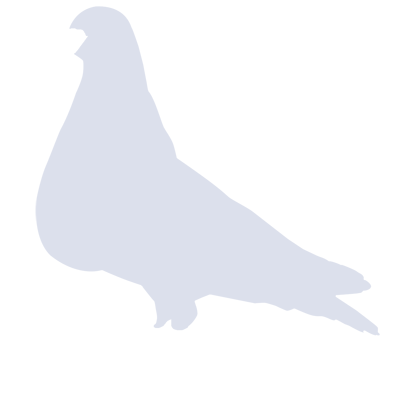
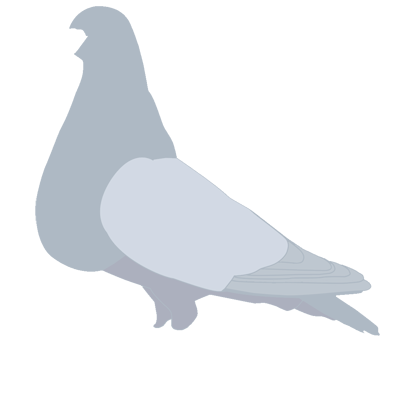
Implemented pigeon dueling. Added better AshRed Spread graphics and fixed some README typos

Changed region(s): [[0.09, 0.0, 0.96, 0.84], [0.69, 0.57, 0.72, 0.6], [0.66, 0.54, 0.69, 0.57]]

diff --git a/site/index.html b/site/index.html
@@ -73,10 +73,10 @@
             You can see similar behavior in breeds like Laudinos, Valencianos, Morrilleros, Marcheneros,
             Rafeños, Horseman pouters and others. In Pigeomatic you can lock your PGNs in a fly session for 2
             hours. When you try to retrieve your PGN the system will randomly select an opponent, if available,
-            and pit the PGNs&#39; <strong>Charisma</strong> vs their <strong>Loyalty*</strong>. Charisma and
+            and pit the PGNs&#39; <strong>Charisma</strong> vs their <strong>Loyalty</strong>. Charisma and
             Loyalty are non-visible traits that are tracked by the PGN&#39;s DNA. The result of this battle has
             2 different outcomes. The battle can be a draw if none of the PGN&#39;s charisma is greater than the
-            opponent&#39;s loyalty. Otherwise the PGN with the highest charisma difference to the opponents
+            opponent&#39;s loyalty. Otherwise the PGN with the highest charisma difference over the opponent&#39;s
             loyalty wins the battle and its onwer gains the oppossing PGN. </p>
         <p>Lastly, like the real animals, PGNs have a lifespan. Based on an ideal maximum of 15 years, all PGNs
             live a fraction of that. Once the PGN reaches the end of his life the PGN is considered dead and
@@ -118,8 +118,7 @@
         <p>If you browse to the utils/images directory you should see 4 png images there. The filename
             corresponds to the PGN id. You can figure out which is which by checking the pigeons.json file that
             we wrote from ghci. The squeakers get rendered as adults so you can see what they would look like in
-            the future. If you selected the same seed (123) when creating the random number generator they
-            should look like this:</p>
+            the future.</p>
         <p><img src="images/1a19ac5c21751dc8917b0690fc5f1d44ca5519e5e0afc8ef363f4185d554d046.png" alt="mother"
                 title="mother">
             <img src="images/29f557f896f7d382eb4d3e1ad91babb8e5683ae54aa28c77e3ebad060c1beba5.png" alt="father"

diff --git a/lambdas/utils/renderPGNS.js b/lambdas/utils/renderPGNS.js
@@ -7,7 +7,7 @@ const pigeons = require(path.join(__dirname,'/pigeons.json'));
 
 console.log('Loading pigeons...');
 let ps = pigeons.map((pigeon) => {
-    return renderPigeon(pigeon.genotype, 250);
+    return renderPigeon(pigeon.genotype, 400);
 });
 console.log(`loaded ${pigeons.length} pigeons.`);
 

diff --git a/README.md b/README.md
@@ -24,9 +24,10 @@ PGNs are either males (*cocks*) or females (*hens*) and they can be paired to pr
 
 The process of pairing PGNs and producing squeakers takes around a month and uses a simplified model of Mendelian genetics. This model loosely follows real world pigeon genetics that add a level of realism to the game. It all starts when you select two PGNs of opposite sex and lock them in a pairing. For the first 10 days the new paired couple builds a nest. On the 10th day the hen lays the first egg followed by the second egg on the next day. 18 days later the eggs hatch and two new squeakers are produced. In order to simulate all this, paired PGNs remain locked for 30 days. The squeakers are the product of genetic recombination of their parent's DNA. In time, squeakers grow up to be adult PGNs. Sexual maturity is achieved after 6 months at which time they can start breeding. In animal husbandry is common to apply selective breeding techniques to encourage traits that are desirable. Inbreeding and line breeding are usually practiced both of which lock desirable traits. You could potentially star with a single pair and develop your loft by pairing siblings. Ultimately if you want to include more traits you could crossbreed to an unrelated PGN.
 
-Another way to interact with your PGNs is by flying them. Keep in mind that PGNs are based on a real world pigeon breed called Jiennense. This breed was created in Spain at the beginning of the last century. Nowadays you can find them in several European countries, USA, South America and the Caribbean. These pigeons are famous for attracting other pigeons to their loft. Pigeon breeders in a neighborhood release one or two of their best specimens at a time and a battle ensues in the air. Pigeons from other lofts try to seduce your pigeons while your pigeons try to do the same. The pigeons fly together and through air maneuvers they show the others the way to their loft. Ultimately when pigeons land on another loft they get captured by various means including the captured pigeon entering a coop and activating a trap. The are other pigeon breeds that are considered "working" pigeons that do the same and the hobby has fans all around the world. You can see similar behavior in breeds like Laudinos, Valencianos, Morrilleros, Marcheneros, Rafeños, Horseman pouters and others. In Pigeomatic you can lock your PGNs in a fly session for 2 hours. When you try to retrieve your PGN the system will randomly select an opponent, if available, and pit the PGNs' **Charisma** vs their **Loyalty***. Charisma and Loyalty are non-visible traits that are tracked by the PGN's DNA. The result of this battle has 2 different outcomes. The battle can be a draw if none of the PGN's charisma is greater than the opponent's loyalty. Otherwise the PGN with the highest charisma difference to the opponents loyalty wins the battle and its onwer gains the oppossing PGN.  
+Another way to interact with your PGNs is by flying them. Keep in mind that PGNs are based on a real world pigeon breed called Jiennense. This breed was created in Spain at the beginning of the last century. Nowadays you can find them in several European countries, USA, South America and the Caribbean. These pigeons are famous for attracting other pigeons to their loft. Pigeon breeders in a neighborhood release one or two of their best specimens at a time and a battle ensues in the air. Pigeons from other lofts try to seduce your pigeons while your pigeons try to do the same. The pigeons fly together and through air maneuvers they show the others the way to their loft. Ultimately when pigeons land on another loft they get captured by various means including the captured pigeon entering a coop and activating a trap. The are other pigeon breeds that are considered "working" pigeons that do the same and the hobby has fans all around the world. You can see similar behavior in breeds like Laudinos, Valencianos, Morrilleros, Marcheneros, Rafeños, Horseman pouters and others. In Pigeomatic you can lock your PGNs in a fly session for 2 hours. When you try to retrieve your PGN the system will randomly select an opponent, if available, and pit the PGNs' **Charisma** vs their **Loyalty**. Charisma and Loyalty are non-visible traits that are tracked by the PGN's DNA. The result of this battle has 2 different outcomes. The battle can be a draw if none of the PGN's charisma is greater than the opponent's loyalty. Otherwise the PGN with the highest charisma difference over the opponent's loyalty wins the battle and its onwer gains the oppossing PGN.  
 
 Lastly, like the real animals, PGNs have a lifespan. Based on an ideal maximum of 15 years, all PGNs live a fraction of that. Once the PGN reaches the end of his life the PGN is considered dead and cannot breed or fly anymore.  
+  
 
 
 ## The Code
@@ -87,7 +88,7 @@ Now cd into lambdas directory and execute:
 
 node utils/renderPGNS.js
 
-If you browse to the utils/images directory you should see 4 png images there. The filename corresponds to the PGN id. You can figure out which is which by checking the pigeons.json file that we wrote from ghci. The squeakers get rendered as adults so you can see what they would look like in the future. If you selected the same seed (123) when creating the random number generator they should look like this:
+If you browse to the utils/images directory you should see 4 png images there. The filename corresponds to the PGN id. You can figure out which is which by checking the pigeons.json file that we wrote from ghci. The squeakers get rendered as adults so you can see what they would look like in the future.:
 
 ![mother](/site/images/1a19ac5c21751dc8917b0690fc5f1d44ca5519e5e0afc8ef363f4185d554d046.png "mother")
 ![father](/site/images/29f557f896f7d382eb4d3e1ad91babb8e5683ae54aa28c77e3ebad060c1beba5.png "father")  
